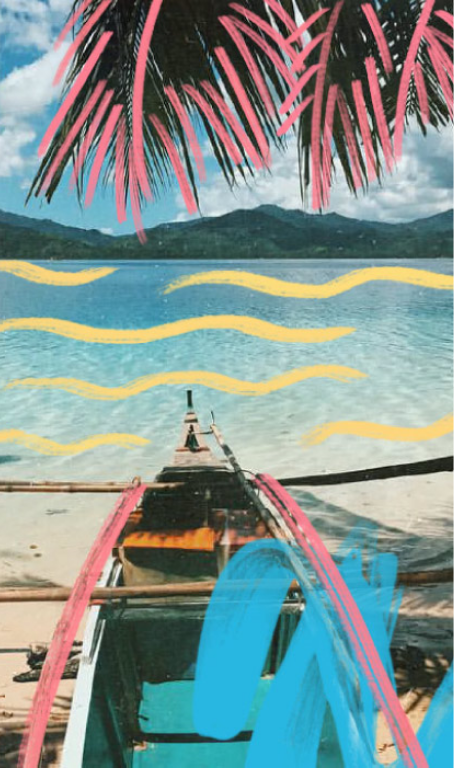
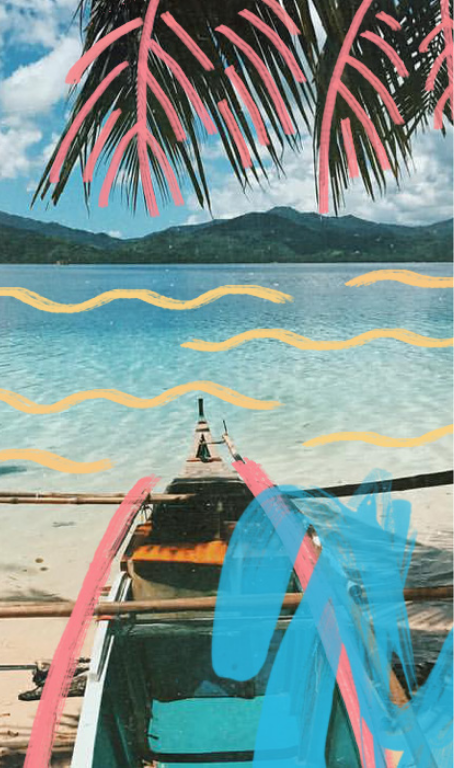
Add empty cart message and changed splash page pic

diff --git a/product.html b/product.html
@@ -196,7 +196,7 @@
             </div>
             <div class="Sidebar-cart-body">
                 <div class="Sidebar-cart-items">
-                    <div class="Sidebar-cart-item row">
+                    <!-- <div class="Sidebar-cart-item row">
                         <div class="col-sm-7 Sidebar-cart-item-imageContainer remove-padding">
                             <img src="assets/cart-item.png" class="Sidebar-cart-item-image">
                         </div>
@@ -267,6 +267,9 @@
                                 <div class="Sidebar-cart-item-price">Php 1,199</div>
                             </div>
                         </div>
+                    </div> -->
+                    <div class="Sidebar-cart-item row">
+                        <p class="Sidebar-cart-emptyMessage">There's nothing in your shopping bag yet. <a href="product.html">Shop now!</a></p>
                     </div>                    
                     <div class="Sidebar-cart-buttonContainer">
                         <a href="shop.html" class="Sidebar-cart-button">Shop</a>

diff --git a/cart.html b/cart.html
@@ -69,7 +69,7 @@
                         </div>
                     </div>
                     <div class="CartPage-cart-body">
-                        <div class="CartPage-cart-item row">
+                        <!-- <div class="CartPage-cart-item row">
                             <div class="col-sm-3 CartPage-cart-item-imageContainer remove-padding">
                                 <img src="assets/cart-item.png" class="CartPage-cart-item-image">
                             </div>
@@ -152,6 +152,8 @@
                                     <div class="CartPage-cart-item-price">Php 1,199</div>
                                 </div>
                             </div>
+                        </div> -->
+                        <div class="CartPage-cart-item row"><p class="CartPage-message--empty">There's nothing in your shopping bag yet. <a href="product.html">Shop now!</a></p>
                         </div>
                     </div>
                 </div>

diff --git a/css/style.css b/css/style.css
@@ -793,9 +793,6 @@ a, a:hover, a:focus, a:active {
 }
 
 .CartPage-suggestions-image-text {
-
-}
-.CartPage-suggestions-image-text {
 	color: #000;
 	font-family: 'Source Sans Pro', sans-serif;
     font-size: 16px;
@@ -812,6 +809,14 @@ a, a:hover, a:focus, a:active {
 	opacity: 1;
 }
 .CartPage-suggestions-item-image {
+	width: 100%;
+}
+.CartPage-message--empty {
+	color: #000;
+	font-family: 'Source Sans Pro', sans-serif;
+  font-size: 16px;
+  line-height: 26px;
+	text-align: center;
 	width: 100%;
 }
 
@@ -1112,6 +1117,10 @@ a, a:hover, a:focus, a:active {
 	font-family: 'Source Sans Pro', sans-serif;
 	line-height: 14px;
 	float: right;
+}
+.Sidebar-cart-emptyMessage {
+	text-align: center;
+	margin: 0 auto;
 }
 
 /* Contact Page */
